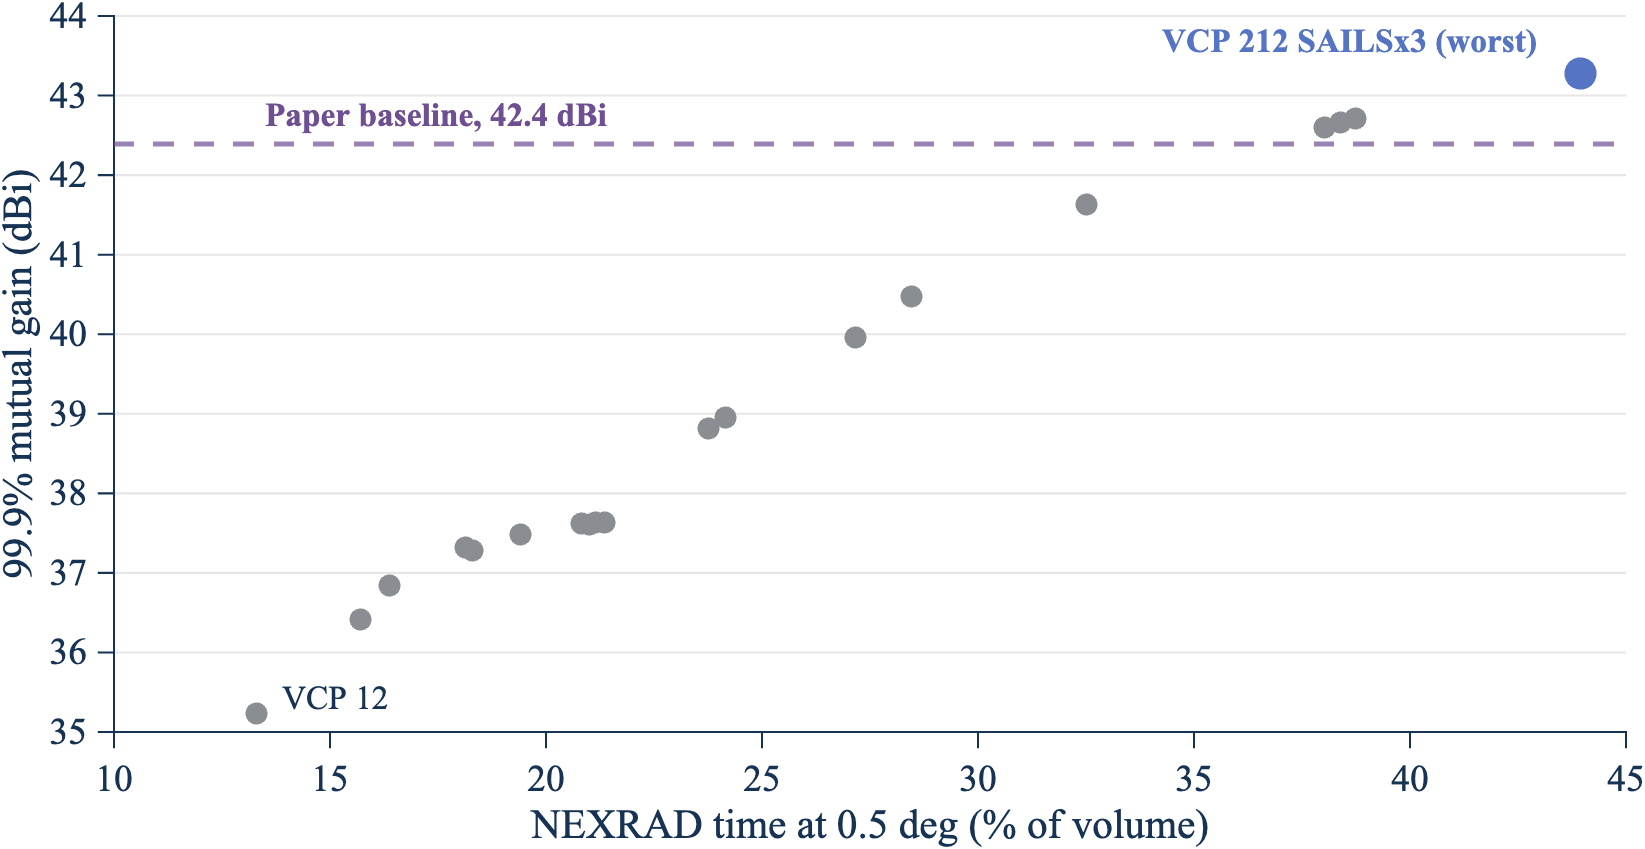
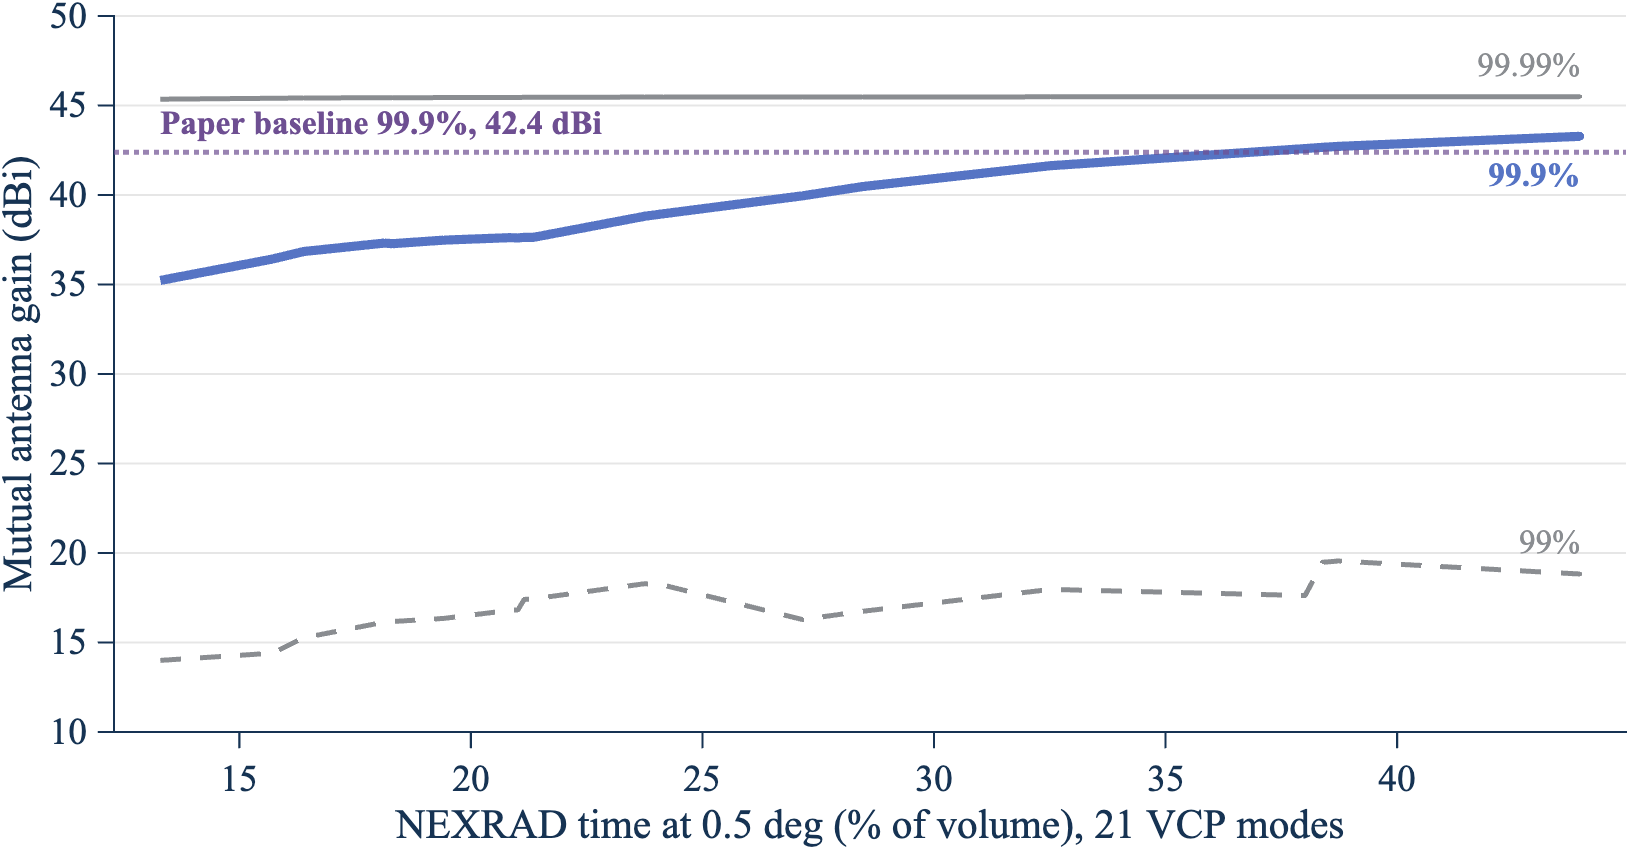
Add CDF arrays, line figures, and fine-grid tail for figure 6
- radar_mutual_gain_cdf_rev1: out.cdf_array12/21, N-by-2 [percent 0-100,
  MAG dBi] on opts.cdf_pct (default 0:1:100 plus 99.5 to 99.999)
- nexrad_asr11_mag_rev1: passes opts.cdf_pct
- report_figures_rev4: figures 3, 5 and 6 as line plots; figure 6 from
  the CDF arrays against main beam to main beam; cdf_array_rev4.csv
- test_nexrad_asr11_rev1: testCdfArray (29 tests; all 108 pass)

Claude-Session: https://claude.ai/code/session_01NcsRFw1VHkXbsPN3k796f6

diff --git a/report_figures_rev4.m b/report_figures_rev4.m
@@ -9,7 +9,8 @@
 %     fig6_mbmb_vs_statistical.png  main beam to main beam versus statistical MAG
 %     vcp_sweep_rev4.csv          sweep table (all modes)
 %     ref_levels_rev4.csv, by_elevation_rev4.csv, asr_rev_pct_rev4.csv,
-%     sensitivity_rev4.csv, mode_envelope_rev4.csv
+%     sensitivity_rev4.csv, mode_envelope_rev4.csv, mbmb_vs_statistical_rev4.csv,
+%     cdf_array_rev4.csv (CDF arrays: percent 0-100 and MAG dBi)
 %   Style: NTIA palette (mid gray context, light blue highlight, purple
 %   second highlight, dark blue text), Times New Roman, 6.5 in wide.
 %   Titles, captions and sources are in the report text, not the images.
@@ -93,17 +94,20 @@ style(ax, c, "Time in volume (s)", "Elevation (deg)", "");
 ylim(ax, [0 20]); xlim(ax, [0 max(sw.volume_s, s215.volume_s)]);
 save_fig(f, out_dir, "fig2_vcp_schedule");
 
-% ---- Figure 3: 99.9% MAG versus time at 0.5 deg ----------------------------
+% ---- Figure 3: MAG versus time at 0.5 deg ---------------------------------
 f = new_fig(6.5, 3.0);
 ax = axes(f);
-scatter(ax, V.t_low_pct, V.p99_9, 28, c.gray, "filled"); hold(ax, "on");
-scatter(ax, V.t_low_pct(i999), V.p99_9(i999), 60, c.blue, "filled");
-put_label(ax, V.t_low_pct(i999) - 1, V.p99_9(i999) + 0.4, string(worst) + " (worst)", c.blue, true, "right");
-[~, i_lo] = min(V.p99_9);
-put_label(ax, V.t_low_pct(i_lo) + 0.6, V.p99_9(i_lo) + 0.2, string(V.case(i_lo)), c.dark, false);
-yline(ax, T.p99_9(i_p), "--", "Color", c.purple, "LineWidth", 1.2);
-put_label(ax, 13.5, T.p99_9(i_p) + 0.35, sprintf("Paper baseline, %.1f dBi", T.p99_9(i_p)), c.purple, true);
-style(ax, c, "NEXRAD time at 0.5 deg (% of volume)", "99.9% mutual gain (dBi)", "");
+[tl, o] = sort(V.t_low_pct);
+plot(ax, tl, V.p99_99(o), "-", "Color", c.gray, "LineWidth", 1.2); hold(ax, "on");
+plot(ax, tl, V.p99(o), "--", "Color", c.gray, "LineWidth", 1.2);
+plot(ax, tl, V.p99_9(o), "-", "Color", c.blue, "LineWidth", 2.2);
+yline(ax, T.p99_9(i_p), ":", "Color", c.purple, "LineWidth", 1.2);
+put_label(ax, tl(end), V.p99_99(o(end)) + 1.8, "99.99%", c.gray, false, "right");
+put_label(ax, tl(end), V.p99_9(o(end)) - 2.2, "99.9%", c.blue, true, "right");
+put_label(ax, tl(end), V.p99(o(end)) + 1.8, "99%", c.gray, false, "right");
+put_label(ax, tl(1), T.p99_9(i_p) + 1.6, sprintf("Paper baseline 99.9%%, %.1f dBi", T.p99_9(i_p)), c.purple, true);
+style(ax, c, "NEXRAD time at 0.5 deg (% of volume), 21 VCP modes", "Mutual antenna gain (dBi)", "");
+ylim(ax, [10 50]); xlim(ax, [tl(1) - 1, tl(end) + 1]);
 save_fig(f, out_dir, "fig3_low_tilt_driver");
 
 % ---- Figure 4: exceedance with reference levels ----------------------------
@@ -135,45 +139,50 @@ save_fig(f, out_dir, "fig4_exceedance");
 f = new_fig(6.5, 3.0);
 ax = axes(f);
 Rv = w.scan_max.asr_rev(w.scan_max.asr_rev.trial == 1 & w.scan_max.asr_rev.complete, :);
-hi = Rv.max_g21_dBi >= R.mag_dBi(3) - 0.2;
-scatter(ax, Rv.t_start_s(~hi), Rv.max_g21_dBi(~hi), 8, c.gray, "filled"); hold(ax, "on");
-scatter(ax, Rv.t_start_s(hi), Rv.max_g21_dBi(hi), 22, c.blue, "filled");
+plot(ax, Rv.t_start_s, Rv.max_g21_dBi, "-", "Color", c.blue, "LineWidth", 0.9); hold(ax, "on");
 yline(ax, R.mag_dBi(5), ":", "Color", c.dark);
+yline(ax, R.mag_dBi(3), ":", "Color", c.dark);
 yline(ax, R.mag_dBi(1), ":", "Color", c.dark);
-put_label(ax, 20, R.mag_dBi(5) - 3, sprintf("ASR-11 main beam + NEXRAD back lobe, %.1f dBi", R.mag_dBi(5)), c.dark, false);
+put_label(ax, 20, R.mag_dBi(5) - 3, sprintf("ASR-11 main beam + NEXRAD back lobe, %.1f dBi (every revolution)", R.mag_dBi(5)), c.dark, false);
+put_label(ax, 20, R.mag_dBi(3) + 2.5, sprintf("NEXRAD main beam + ASR-11 back lobe, %.1f dBi (%.1f%% of revolutions)", ...
+    R.mag_dBi(3), R.asr_rev_reached_pct(3)), c.dark, false);
 put_label(ax, 20, R.mag_dBi(1) + 3, sprintf("Main beam to main beam, %.1f dBi", R.mag_dBi(1)), c.dark, false);
-put_label(ax, 1900, 62, sprintf("%.1f%% of revolutions reach %.1f dBi or more", ...
-    R.asr_rev_reached_pct(3), R.mag_dBi(3)), c.blue, true);
-style(ax, c, "Time (s), trial 1", "Maximum mutual gain per revolution (dBi)", "");
+style(ax, c, "Time (s), trial 1", "Maximum MAG per revolution (dBi)", "");
 ylim(ax, [15 85]); xlim(ax, [0 max(Rv.t_start_s) + 5]);
 save_fig(f, out_dir, "fig5_max_per_rev");
 
 % ---- Figure 6: main beam to main beam versus the statistical MAG -------------
+%      MAG against percent of time exceeded, from the CDF arrays
 f = new_fig(6.5, 3.2);
 ax = axes(f);
 Sw = res{i_w}.sensitivity; S215 = res{i_215}.sensitivity; Sp = res{i_p}.sensitivity;
-keep = [1 2 7 6 5 4];                          % peak MB-MB, path MB-MB, 99.999 ... 99%
-yl = ["Main beam to main beam (peak gains)", "Main beam to main beam (on path)", ...
-    "99.999% MAG", "99.99% MAG", "99.9% MAG", "99% MAG"];
-y = numel(keep):-1:1;
-plot(ax, Sp.mag_dBi(keep), y + 0.18, "d", "MarkerFaceColor", c.purple, "MarkerEdgeColor", "none", "MarkerSize", 6);
-hold(ax, "on");
-plot(ax, S215.mag_dBi(keep), y - 0.18, "o", "MarkerFaceColor", c.gray, "MarkerEdgeColor", "none", "MarkerSize", 6);
-plot(ax, Sw.mag_dBi(keep), y, "o", "MarkerFaceColor", c.blue, "MarkerEdgeColor", "none", "MarkerSize", 8);
-xline(ax, Sw.mag_dBi(1), "-", "Color", c.dark, "LineWidth", 0.8);
-for k = 3:numel(keep)
-    text(ax, Sw.mag_dBi(keep(k)) + 1.5, y(k), sprintf("%.0f dB below", -Sw.delta_vs_peak_mbmb_dB(keep(k))), ...
-        "Color", c.blue, "FontWeight", "bold", "FontName", "Times New Roman", "FontSize", 8);
+p_fine = 100 - logspace(0, -3, 200)';         % 99% to 99.999%, finer than opts.cdf_pct
+cases = cellfun(@(r) [p_fine, prctile(r.cdf.g21_dBi, p_fine)], {res{i_p}, res{i_215}, res{i_w}}, ...
+    "UniformOutput", false);
+sty = {{"--", c.purple, 1.4}, {"-", c.gray, 1.4}, {"-", c.blue, 2.2}};
+for k = 1:3
+    A = cases{k};
+    A = A(A(:, 1) >= 99 & A(:, 1) < 100, :);
+    semilogx(ax, 100 - A(:, 1), A(:, 2), sty{k}{1}, "Color", sty{k}{2}, "LineWidth", sty{k}{3});
+    hold(ax, "on");
 end
-put_label(ax, 2, 6.75, string(worst), c.blue, true);
-put_label(ax, 2, 6.35, "VCP 215", c.gray, false);
-put_label(ax, 2, 5.95, "Paper baseline (F.1245, 3 rpm)", c.purple, true);
-ax.YTick = 1:numel(keep);
-ax.YTickLabel = fliplr(yl);
-style(ax, c, "Mutual antenna gain (dBi)", "", "");
-ax.YGrid = "off"; ax.XGrid = "on";
-xlim(ax, [0 85]); ylim(ax, [0.4 numel(keep) + 0.9]);
+ax.XDir = "reverse";
+yline(ax, Sw.mag_dBi(1), "-", "Color", c.dark, "LineWidth", 1.0);
+yline(ax, Sw.mag_dBi(2), ":", "Color", c.dark, "LineWidth", 1.0);
+put_label(ax, 1, Sw.mag_dBi(1) + 2.5, sprintf("Main beam to main beam, peak gains, %.1f dBi", Sw.mag_dBi(1)), c.dark, false);
+put_label(ax, 1, Sw.mag_dBi(2) - 3, sprintf("Main beam to main beam on the path, %.1f dBi", Sw.mag_dBi(2)), c.dark, false);
+g01 = Sw.delta_vs_peak_mbmb_dB(Sw.mag_choice == "99.9% time-weighted MAG");
+put_label(ax, 0.0011, 71, string(worst), c.blue, true, "right");
+put_label(ax, 0.1, 31, sprintf("Worst mode at 0.1%%: %.0f dB below peak main beam to main beam", -g01), c.blue, false);
+put_label(ax, 0.01, 65, "Paper baseline", c.purple, true, "right");
+put_label(ax, 0.01, 37, "VCP 215", c.gray, false, "right");
+style(ax, c, "Time exceeded (%, log scale)", "Mutual antenna gain (dBi)", "");
+xlim(ax, [1e-3 1]); ylim(ax, [10 85]);
 save_fig(f, out_dir, "fig6_mbmb_vs_statistical");
+A3 = {res{i_p}.cdf.cdf_array21, res{i_215}.cdf.cdf_array21, res{i_w}.cdf.cdf_array21};   % opts.cdf_pct grid
+cdf_tab = array2table([A3{1}(:, 1), A3{1}(:, 2), A3{2}(:, 2), A3{3}(:, 2)], ...
+    "VariableNames", ["pct", "paper_baseline_dBi", "vcp215_dBi", "worst_mode_dBi"]);
+writetable(cdf_tab, fullfile(out_dir, "cdf_array_rev4.csv"));
 writetable([table(repmat(T.case(i_p), height(Sp), 1), 'VariableNames', "case"), Sp; ...
     table(repmat(T.case(i_215), height(S215), 1), 'VariableNames', "case"), S215; ...
     table(repmat(worst, height(Sw), 1), 'VariableNames', "case"), Sw], ...

diff --git a/radar_mutual_gain_cdf_rev1.m b/radar_mutual_gain_cdf_rev1.m
@@ -88,6 +88,8 @@ function out = radar_mutual_gain_cdf_rev1(sys1, sys2, opts)
 %     .parallel_flag  0 (default) or 1 (parfor over chunks or trials)
 %     .chunk_size     random mode samples per chunk (default 2.5e5)
 %     .pct            percentiles to report (default [50 90 99 99.9 99.99 99.999])
+%     .cdf_pct        percent grid of the CDF arrays, 0 to 100 (default 0:1:100
+%                     plus 99.5, 99.9, 99.95, 99.99, 99.995 and 99.999)
 %     .event_thresh_dBi  coupling thresholds for event statistics
 %                     (time_series; default [20 30 40])
 %     .scan_sync      "unsynchronized" (default) | "synchronized". The
@@ -104,6 +106,10 @@ function out = radar_mutual_gain_cdf_rev1(sys1, sys2, opts)
 %   out struct:
 %     .g12_dBi, .g21_dBi  coupling samples, column vectors
 %     .cdf12, .cdf21      tables: gain_dBi, cdf, exceed_pct (0.1 dB grid)
+%     .cdf_array12, .cdf_array21  N-by-2 double: column 1 is the percent
+%                         of time (0 to 100, opts.cdf_pct), column 2 the MAG
+%                         (dBi) not exceeded for that percent of time
+%                         (prctile; 0 gives the minimum, 100 the maximum)
 %     .pct12, .pct21      tables: pct, gain_dBi, n_tail (samples above the
 %                         percentile; < 10 means the tail is poorly sampled)
 %     .geom               az/el each way, beat period
@@ -159,6 +165,8 @@ out.cdf12 = cdf_table(g12);
 out.cdf21 = cdf_table(g21);
 out.pct12 = pct_table(g12, opts.pct);
 out.pct21 = pct_table(g21, opts.pct);
+out.cdf_array12 = cdf_array(g12, opts.cdf_pct);
+out.cdf_array21 = cdf_array(g21, opts.cdf_pct);
 out.geom = geom;
 out.events12 = events12;
 out.ts = ts;
@@ -439,6 +447,12 @@ T = table(edges(2:end)', F, 100*(1 - F), ...
 end
 
 % -------------------------------------------------------------------------
+function A = cdf_array(g, pct)
+% CDF as a plain numeric array: [percent, MAG dBi], percent 0 to 100.
+A = [pct(:), prctile(g, pct(:))];
+end
+
+% -------------------------------------------------------------------------
 function T = pct_table(g, pct)
 q = prctile(g, pct(:));
 n_tail = numel(g)*(1 - pct(:)/100);
@@ -546,7 +560,8 @@ end
 d = struct("mode", "random", "n_samples", 5e6, "duration_s", 3600, ...
     "dt_s", NaN, "n_trials", 4, "el12_deg", 0, "el21_deg", 0, "parallel_flag", 0, ...
     "chunk_size", 2.5e5, "pct", [50 90 99 99.9 99.99 99.999], ...
-    "event_thresh_dBi", [20 30 40], "scan_sync", "unsynchronized", "sync_offset_deg", 0);
+    "event_thresh_dBi", [20 30 40], "scan_sync", "unsynchronized", "sync_offset_deg", 0, ...
+    "cdf_pct", unique([0:1:100, 99.5 99.9 99.95 99.99 99.995 99.999]));
 f = fieldnames(d);
 for i = 1:numel(f)
     if ~isfield(opts, f{i}) || isempty(opts.(f{i}))
@@ -563,6 +578,10 @@ end
 opts.scan_sync = string(opts.scan_sync);
 if ~ismember(opts.scan_sync, ["unsynchronized", "synchronized"])
     error("radar_coupling:badScanSync", "opts.scan_sync must be ""unsynchronized"" or ""synchronized"".");
+end
+if ~isnumeric(opts.cdf_pct) || isempty(opts.cdf_pct) || any(opts.cdf_pct < 0 | opts.cdf_pct > 100) ...
+        || any(diff(opts.cdf_pct(:)) <= 0)
+    error("radar_coupling:badCdfPct", "opts.cdf_pct must increase strictly within 0 to 100.");
 end
 if ~isscalar(opts.sync_offset_deg) || ~isfinite(opts.sync_offset_deg)
     error("radar_coupling:badSyncOffset", "opts.sync_offset_deg must be a finite scalar.");

diff --git a/nexrad_asr11_mag_rev1.m b/nexrad_asr11_mag_rev1.m
@@ -44,11 +44,14 @@ function out = nexrad_asr11_mag_rev1(opts)
 %                       ASR-11 beam transit time, 1.45/75 = 0.019 s)
 %     .pct              percentiles reported ([50 90 99 99.9 99.99 99.999])
 %     .parallel_flag    0 (default) | 1, passed to the CDF run
+%     .cdf_pct          percent grid of out.cdf.cdf_array12/21, 0 to 100
+%                       (default 0:1:100 plus 99.5 to 99.999)
 %     .plot_flag        true: plot the exceedance curve with the reference
 %                       levels (false)
 %
 %   out struct:
-%     .cdf              radar_mutual_gain_cdf_rev1 output (random mode)
+%     .cdf              radar_mutual_gain_cdf_rev1 output (random mode),
+%                       including cdf_array21: [percent 0-100, MAG dBi]
 %     .ref_levels       table of main-beam and sidelobe combinations on the
 %                       link path: combination, mag_dBi, nexrad_gain_dBi,
 %                       asr11_gain_dBi, time_exceeded_pct (time-weighted CDF),
@@ -109,7 +112,7 @@ A = assumptions();
 %      (drive tolerance), so the commensurate-rate warning is expected.
 o = struct("seed", opts.seed, "mode", "random", "n_samples", opts.n_samples, ...
     "el12_deg", opts.el_path_deg, "el21_deg", opts.el_path_deg, ...
-    "pct", opts.pct, "parallel_flag", opts.parallel_flag);
+    "pct", opts.pct, "parallel_flag", opts.parallel_flag, "cdf_pct", opts.cdf_pct);
 w = warning("off", "radar_coupling:commensurateRates");
 cleanup = onCleanup(@() warning(w));
 cdf = radar_mutual_gain_cdf_rev1(sys_n, sys_a, o);
@@ -550,7 +553,7 @@ d = struct("nexrad_scan", "vcp", "vcp", 212, "sails", 0, "mrle", 0, "avset_top_d
     "asr_tilt_deg", 0, "asr_rate_jitter_deg_s", 0.5, "asr_jitter_mode", "per_trial", ...
     "el_path_deg", 0, "n_samples", 5e6, "duration_s", 3600, ...
     "n_trials", 2, "dt_s", 0.002, "pct", [50 90 99 99.9 99.99 99.999], "parallel_flag", 0, ...
-    "plot_flag", false);
+    "plot_flag", false, "cdf_pct", unique([0:1:100, 99.5 99.9 99.95 99.99 99.995 99.999]));
 f = fieldnames(d);
 for i = 1:numel(f)
     if ~isfield(opts, f{i}) || (isempty(opts.(f{i})) && f{i} ~= "cd_rate_deg_s")

diff --git a/test_nexrad_asr11_rev1.m b/test_nexrad_asr11_rev1.m
@@ -345,6 +345,22 @@ verifyTrue(tc, issorted(flipud(env.exceed.envelope_exceed_pct)));
 verifyError(tc, @() mag_mode_envelope_rev1({a}, ["A", "B"]), "radar_coupling:envelopeInput");
 end
 
+function testCdfArray(tc)
+% CDF as [percent, MAG dBi], 0 to 100, consistent with the samples.
+out = quick_run(struct("cdf_pct", 0:5:100));
+A = out.cdf.cdf_array21;
+verifySize(tc, A, [21 2]);
+verifyEqual(tc, A(:, 1), (0:5:100)');
+verifyEqual(tc, A(1, 2), min(out.cdf.g21_dBi));
+verifyEqual(tc, A(end, 2), max(out.cdf.g21_dBi));
+verifyTrue(tc, issorted(A(:, 2)));
+verifyEqual(tc, A(A(:, 1) == 50, 2), prctile(out.cdf.g21_dBi, 50));
+d = quick_run(struct()).cdf.cdf_array21;          % default grid includes the tail
+verifyTrue(tc, all(ismember([0 50 99 99.9 99.99 99.999 100], d(:, 1))));
+verifyError(tc, @() quick_run(struct("cdf_pct", [0 50 40])), "radar_coupling:badCdfPct");
+verifyError(tc, @() quick_run(struct("cdf_pct", [0 101])), "radar_coupling:badCdfPct");
+end
+
 function testShortRunHasNoCompleteCuts(tc)
 % 10 s is shorter than any VCP 212 cut pair: no complete cut, empty
 % per-elevation table, no error.
